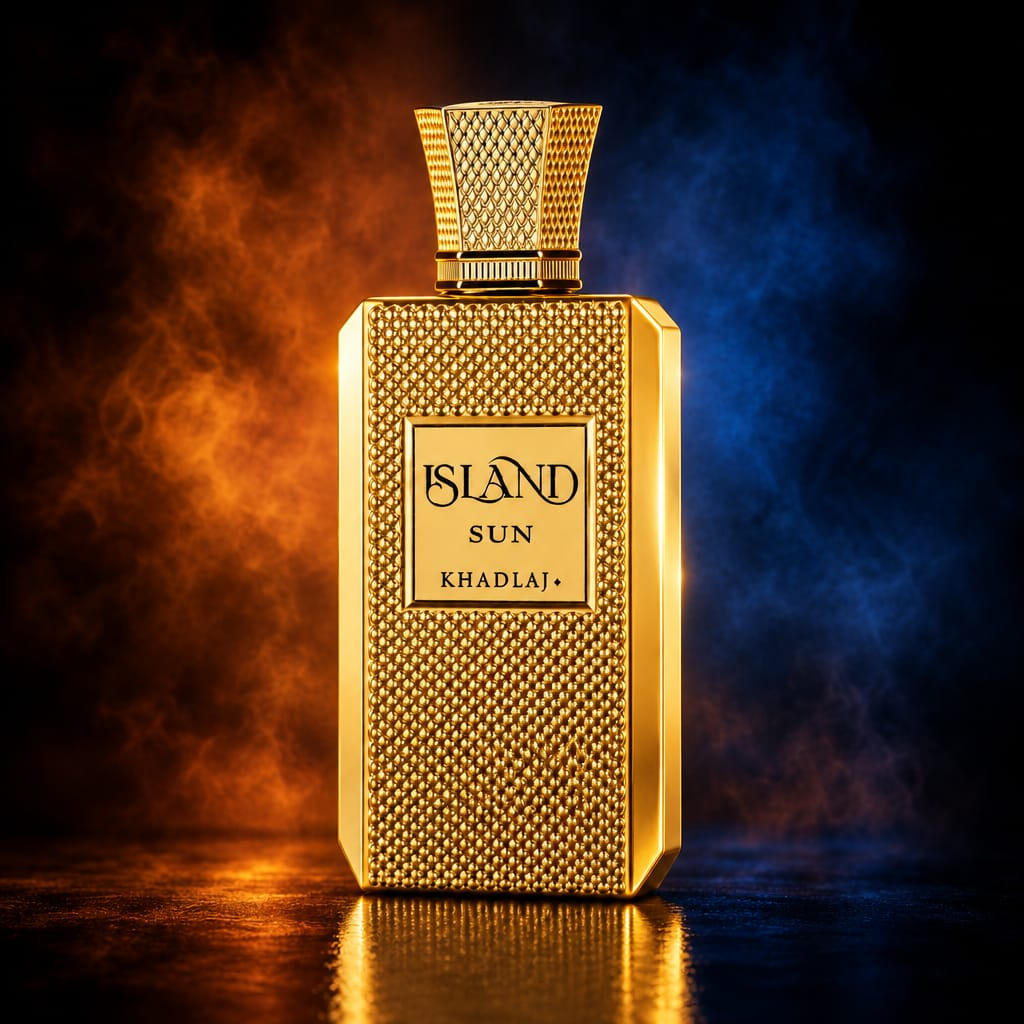
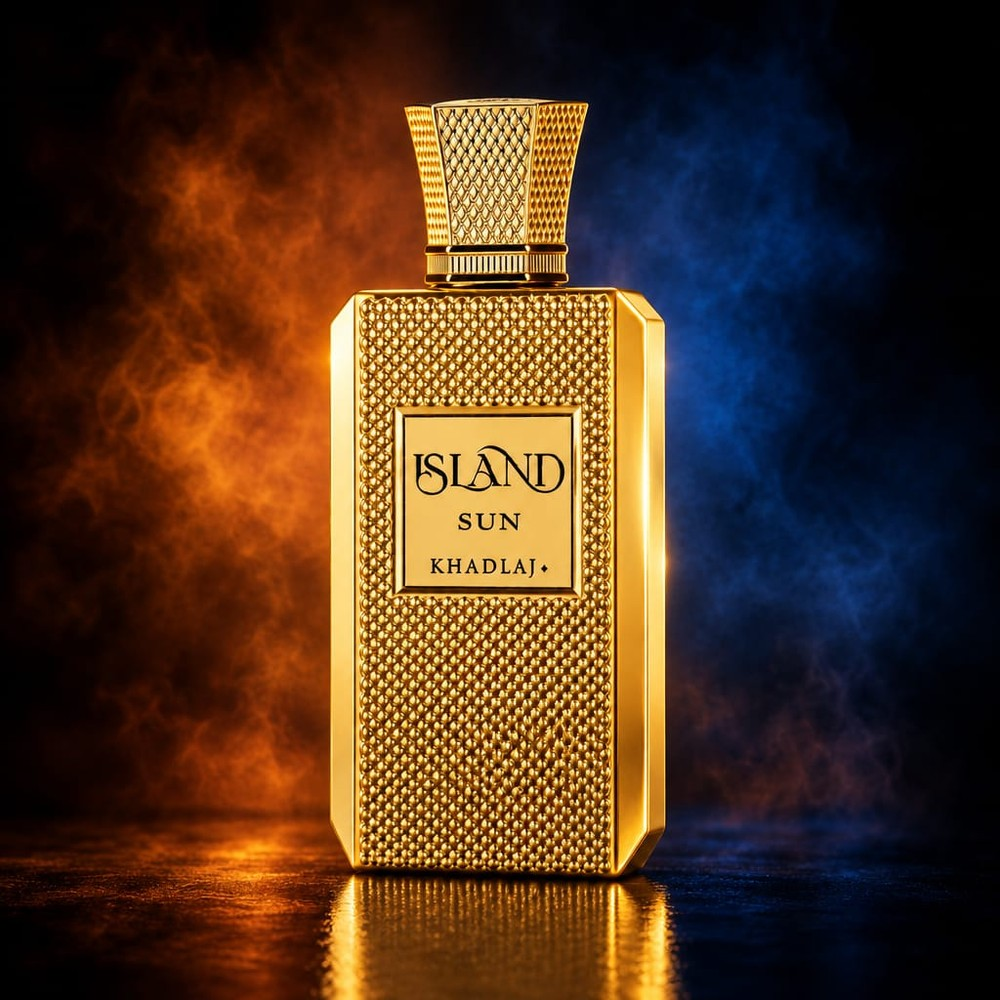
Shrink the Brands strip and square-crop bottle photos to fill the cards.

Changed region(s): [[0.465, 0.093, 0.558, 0.31], [0.465, 0.465, 0.496, 0.496]]

diff --git a/src/components/brand/brand-grid.tsx b/src/components/brand/brand-grid.tsx
@@ -5,23 +5,23 @@ import { cn } from "@/lib/utils";
 const LOOP = [...HOUSE_BRANDS, ...HOUSE_BRANDS];
 
 const NAME_STYLES = [
-  "font-serif text-4xl italic text-snow sm:text-5xl",
-  "text-xl font-semibold uppercase tracking-[0.32em] text-champagne sm:text-2xl",
-  "font-serif text-5xl text-snow sm:text-6xl",
-  "text-2xl font-medium uppercase tracking-[0.2em] text-champagne sm:text-3xl",
+  "font-serif text-lg italic text-snow sm:text-xl",
+  "text-[11px] font-semibold uppercase tracking-[0.22em] text-champagne sm:text-sm",
+  "font-serif text-xl text-snow sm:text-2xl",
+  "text-sm font-medium uppercase tracking-[0.16em] text-champagne sm:text-base",
 ];
 
 export function BrandGrid() {
   return (
     <section className="bg-leaf" aria-label="Brands">
-      <p className="pt-6 text-center text-xs uppercase tracking-[0.48em] text-champagne sm:text-sm">Brands</p>
+      <p className="pt-2 text-center text-[10px] uppercase tracking-[0.32em] text-champagne">Brands</p>
       <div className="overflow-hidden">
-        <div className="brand-marquee-track flex w-max items-center py-8 sm:py-10">
+        <div className="brand-marquee-track flex w-max items-center py-2.5 sm:py-3">
           {LOOP.map((brand, index) => (
             <Link
               key={`${brand.slug}-${index}`}
               href={`/brands/${brand.slug}`}
-              className={cn("mx-10 shrink-0 whitespace-nowrap sm:mx-14", NAME_STYLES[index % NAME_STYLES.length])}
+              className={cn("mx-5 shrink-0 whitespace-nowrap sm:mx-8", NAME_STYLES[index % NAME_STYLES.length])}
             >
               {brand.name}
             </Link>

diff --git a/src/components/product/gallery.tsx b/src/components/product/gallery.tsx
@@ -7,19 +7,19 @@ import type { ProductImage } from "@/lib/catalog/types";
 export function ProductGallery({ images, name }: { images: ProductImage[]; name: string }) {
   const [active, setActive] = useState(images[0]);
   if (!active) {
-    return <div className="aspect-[3/4] bg-espresso/5" />;
+    return <div className="aspect-square rounded-[1.5rem] bg-espresso/5" />;
   }
 
   return (
     <div>
-      <div className="relative aspect-[3/4] overflow-hidden bg-espresso/5">
+      <div className="relative mx-auto aspect-square w-full max-w-md overflow-hidden rounded-[1.5rem] bg-espresso/5 lg:max-w-none">
         <Image
           src={active.url}
           alt={active.alt || name}
           fill
           priority
           sizes="(min-width: 1024px) 50vw, 100vw"
-          className="object-contain p-4"
+          className="object-cover"
         />
       </div>
       {images.length > 1 ? (

diff --git a/src/components/product/product-card.tsx b/src/components/product/product-card.tsx
@@ -29,14 +29,14 @@ export function ProductCard({ product }: { product: CatalogProduct }) {
     <article className="group">
       <div className="relative">
         <Link href={`/product/${product.slug}`} className="block">
-          <div className="relative aspect-[4/5] overflow-hidden rounded-[1.5rem] bg-espresso/5">
+          <div className="relative aspect-square overflow-hidden rounded-[1.5rem] bg-espresso/5">
             {image ? (
               <Image
                 src={image.url}
                 alt={image.alt}
                 fill
                 sizes="(min-width: 1024px) 33vw, (min-width: 640px) 50vw, 100vw"
-                className="object-contain p-3 transition duration-500 hover:scale-105"
+                className="object-cover transition duration-500 hover:scale-105"
               />
             ) : null}
           </div>

diff --git a/src/components/ui/states.tsx b/src/components/ui/states.tsx
@@ -28,7 +28,7 @@ export function Skeleton({ className = "" }: { className?: string }) {
 export function ProductCardSkeleton() {
   return (
     <div>
-      <Skeleton className="aspect-[4/5] w-full" />
+      <Skeleton className="aspect-square w-full" />
       <Skeleton className="mt-4 h-4 w-2/3" />
       <Skeleton className="mt-2 h-4 w-1/3" />
     </div>
